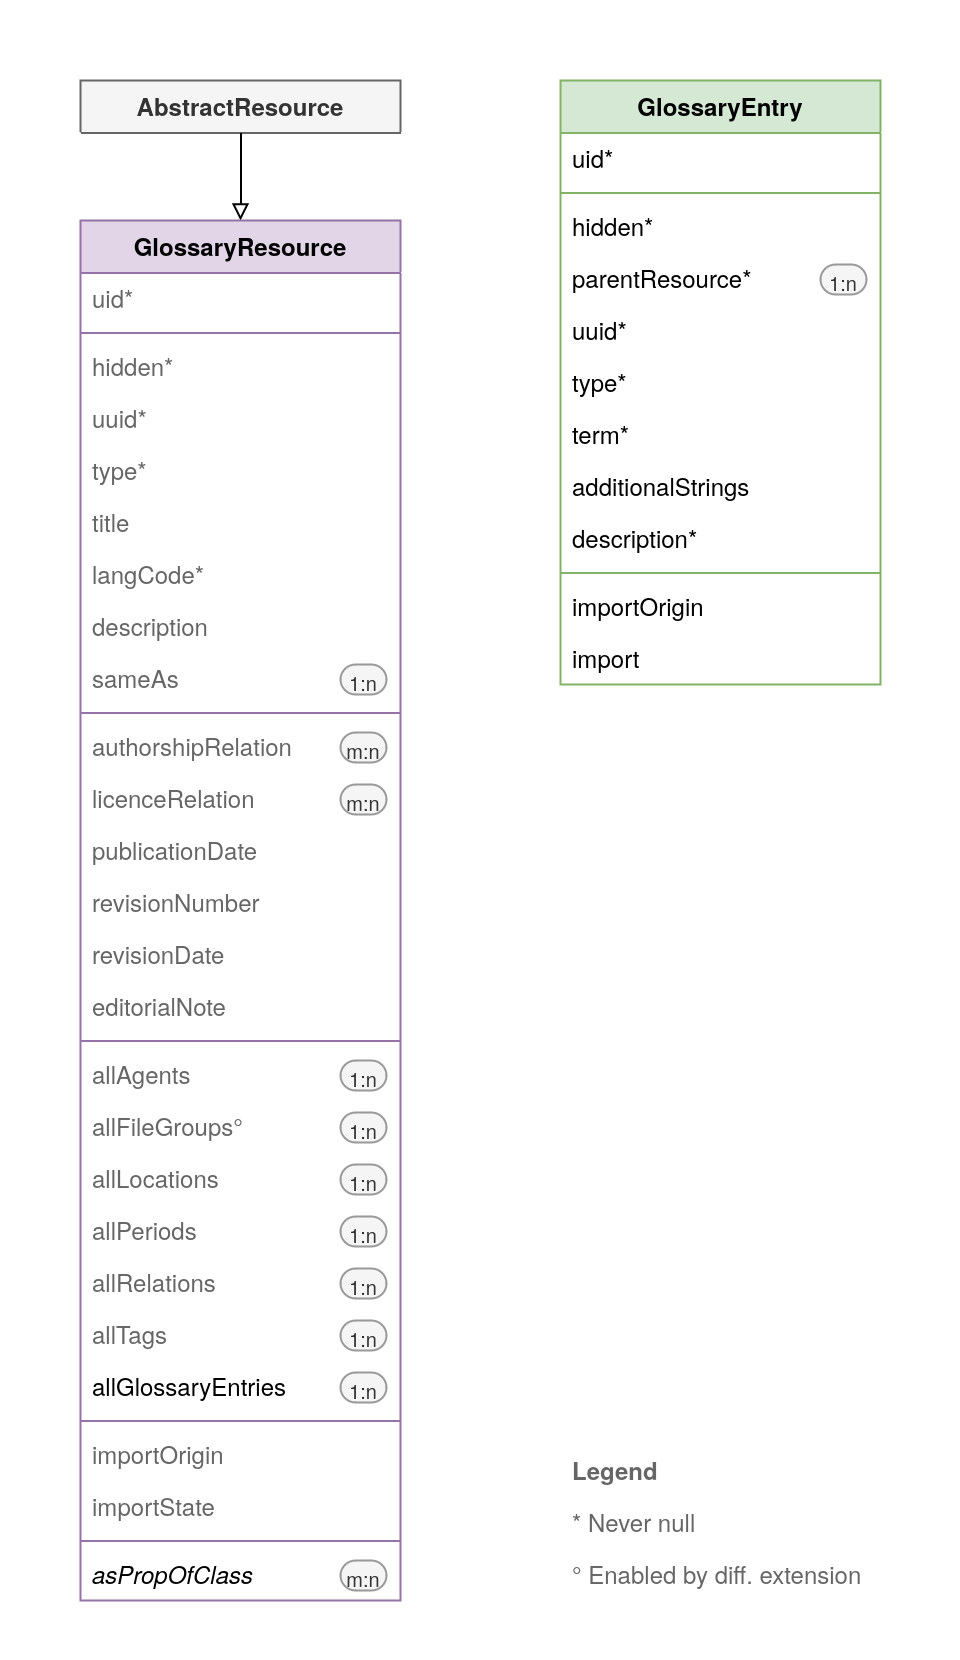
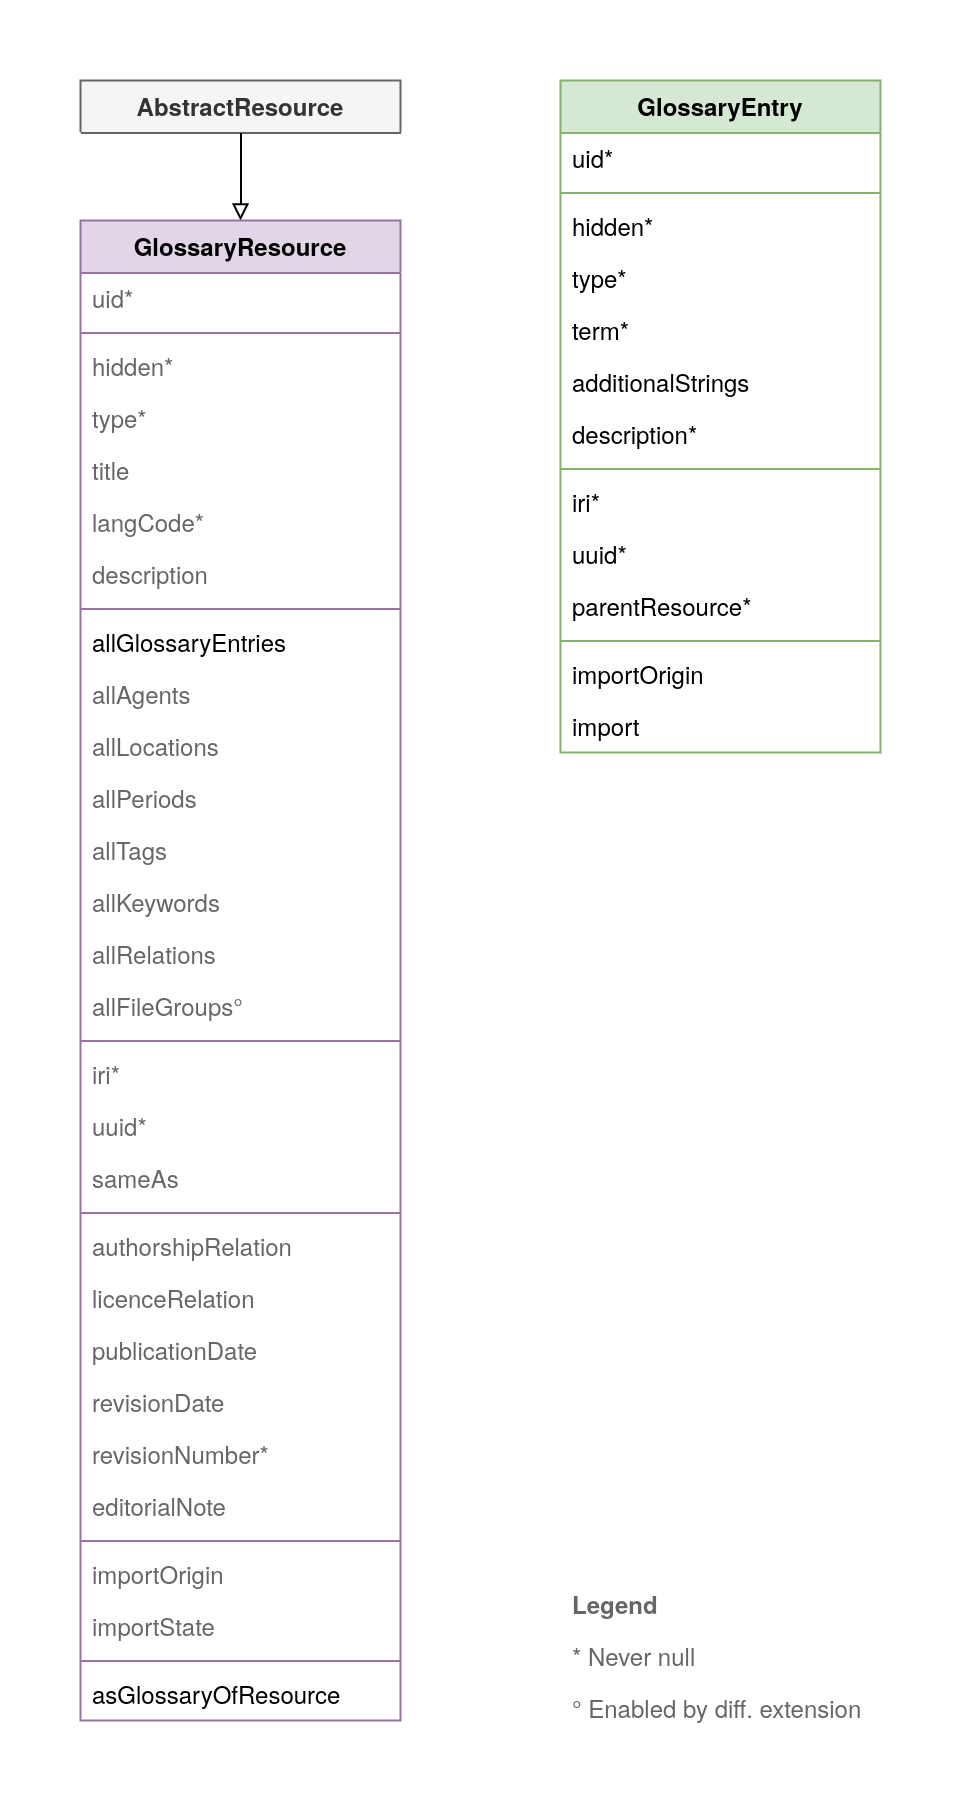
Revise backend forms and remove superfluous SQL

diff --git a/Configuration/TCA/tx_chfgloss_domain_model_glossary_entry.php b/Configuration/TCA/tx_chfgloss_domain_model_glossary_entry.php
@@ -21,8 +21,8 @@ return [
     'ctrl' => [
         'title'                    => 'LLL:EXT:chf_gloss/Resources/Private/Language/locallang.xlf:object.glossaryEntry',
         'label'                    => 'term',
-        'label_alt'                => 'additionalStrings',
-        'description'              => 'description',
+        'label_alt'                => 'type',
+        'label_alt_force'          => true,
         'tstamp'                   => 'tstamp',
         'crdate'                   => 'crdate',
         'delete'                   => 'deleted',
@@ -272,11 +272,11 @@ return [
         ],
     ],
     'palettes' => [
-        'typeUuid' => [
-            'showitem' => 'type,uuid,',
-        ],
         'termAdditionalStringsDescription' => [
             'showitem' => 'term,additionalStrings,--linebreak--,description',
+        ],
+        'iriUuid' => [
+            'showitem' => 'iri,uuid,',
         ],
         'importOriginImport' => [
             'showitem' => 'importOrigin,--linebreak--,import,',
@@ -284,7 +284,8 @@ return [
     ],
     'types' => [
         '0' => [
-            'showitem' => '--palette--;;typeUuid,--palette--;;termAdditionalStringsDescription,parentResource,
+            'showitem' => 'type,--palette--;;termAdditionalStringsDescription,
+            --div--;LLL:EXT:chf_base/Resources/Private/Language/locallang.xlf:object.generic.placement,--palette--;;iriUuid,parentResource,
             --div--;LLL:EXT:chf_base/Resources/Private/Language/locallang.xlf:object.generic.import,--palette--;;importOriginImport,',
         ],
     ],

diff --git a/Configuration/TCA/Overrides/tx_chfbase_domain_model_resource.php b/Configuration/TCA/Overrides/tx_chfbase_domain_model_resource.php
@@ -101,9 +101,10 @@ defined('TYPO3') or die();
 
 // Add type 'glossaryResource' and its 'showitem' list
 $GLOBALS['TCA']['tx_chfbase_domain_model_resource']['types'] += ['glossaryResource' => [
-    'showitem' => '--palette--;;typeUuid,--palette--;;titleLangCodeDescription,sameAs,
+   'showitem' => 'type,--palette--;;titleLangCodeDescription,
+   --div--;LLL:EXT:chf_base/Resources/Private/Language/locallang.xlf:object.generic.structured,allGlossaryEntries,allAgents,allLocations,allPeriods,allTags,allKeywords,allRelations,allFileGroups,
+   --div--;LLL:EXT:chf_base/Resources/Private/Language/locallang.xlf:object.generic.placement,--palette--;;iriUuid,sameAs,
    --div--;LLL:EXT:chf_base/Resources/Private/Language/locallang.xlf:object.generic.editorial,--palette--;;authorshipRelationLicenceRelation,--palette--;;publicationDateRevisionDateRevisionNumberEditorialNote,
-   --div--;LLL:EXT:chf_base/Resources/Private/Language/locallang.xlf:object.generic.content,allGlossaryEntries,allAgents,allLocations,allPeriods,allTags,allRelations,allFileGroups,
    --div--;LLL:EXT:chf_base/Resources/Private/Language/locallang.xlf:object.generic.import,--palette--;;importOriginImportState,
    --div--;LLL:EXT:chf_base/Resources/Private/Language/locallang.xlf:object.generic.usage,asGlossaryOfResource,',
 ]];
